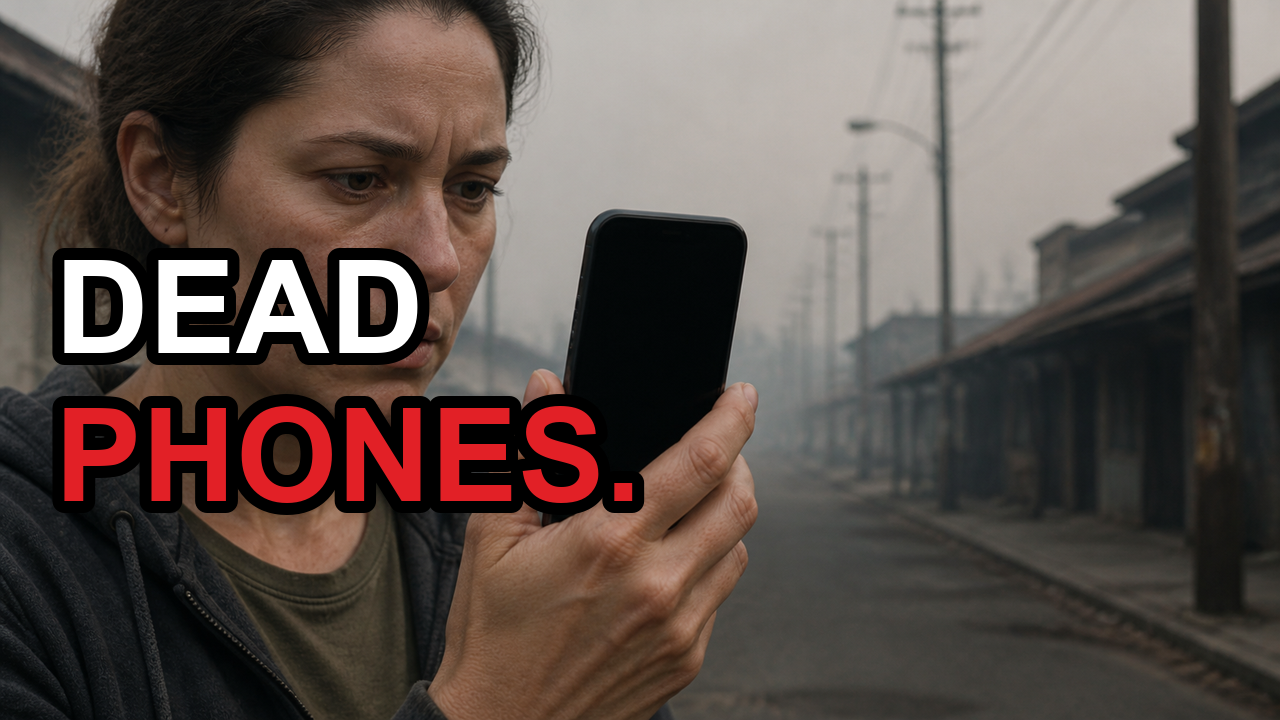
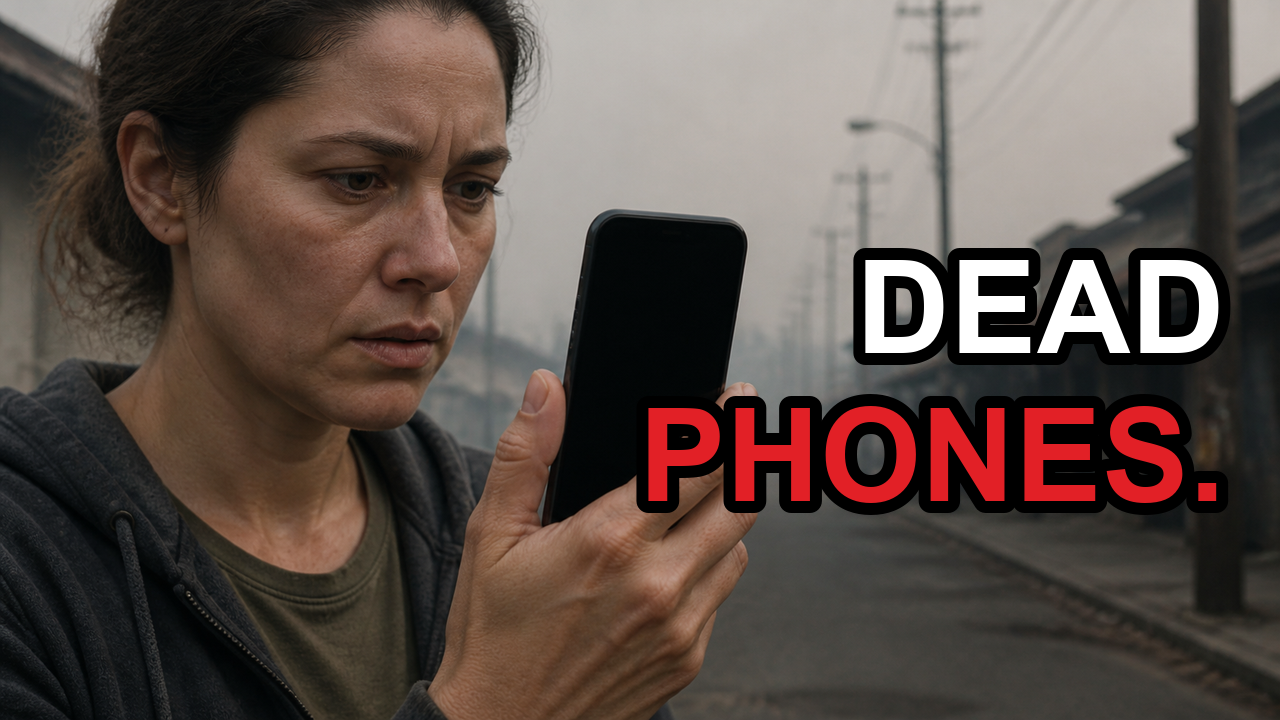
Thumbnails: place type where the picture is not (edge density, not darkness)
Owner caught type sitting on subjects (firefighter, siren pole, empty chair)
on the EP71-76 sheet. Root cause: auto side-pick chose the DARKER side, and a
subject in shadow is dark. Now the pick minimises edge density (FIND_EDGES mean,
weight 3) with luma as a low-weight tiebreak. All 37 candidates rebuilt across
EP71-82+EP35; every overlap moved to the empty side. EP35 selected.v003 is
byte-identical (its placement was already right) so the live video needs no
re-push. selected.v001 refreshed for the other twelve.

Changed region(s): [[0.0312, 0.55, 0.9688, 0.7333], [0.6562, 0.3361, 0.9688, 0.5194], [0.0312, 0.3361, 0.3438, 0.5194]]

diff --git a/scripts/build_case_thumbnails_from_plates.py b/scripts/build_case_thumbnails_from_plates.py
@@ -237,12 +237,22 @@ def compose_winner(plate: Path, lines: list[str], accent_line: int, side: str, o
         raise ValueError(f"winner-style line too wide for a side placement: {lines!r}")
 
     if side == "auto":
+        # Put the type where the PICTURE ISN'T. The first version picked the darker side, and on
+        # plates whose subject sits in shadow (a firefighter, a siren pole, an empty chair) that
+        # planted the words on the subject's face -- the owner caught it on the EP71-76 sheet.
+        # Detail (edge density) finds the subject regardless of its brightness; luma only breaks
+        # ties, weighted low.
+        from PIL import ImageFilter, ImageStat
         g = im.convert("L")
         band = g.crop((0, 200, W, 640))
-        left = band.crop((0, 0, int(W * 0.42), band.height))
-        right = band.crop((W - int(W * 0.42), 0, W, band.height))
-        from PIL import ImageStat
-        side = "left" if ImageStat.Stat(left).mean[0] <= ImageStat.Stat(right).mean[0] else "right"
+        edges = band.filter(ImageFilter.FIND_EDGES)
+        lw = int(W * 0.42)
+        score = {}
+        for name, box in (("left", (0, 0, lw, band.height)),
+                          ("right", (W - lw, 0, W, band.height))):
+            score[name] = (ImageStat.Stat(edges.crop(box)).mean[0] * 3.0
+                           + ImageStat.Stat(band.crop(box)).mean[0] * 0.2)
+        side = "left" if score["left"] <= score["right"] else "right"
 
     lh = font.size + 18
     total = lh * len(lines) - 18
